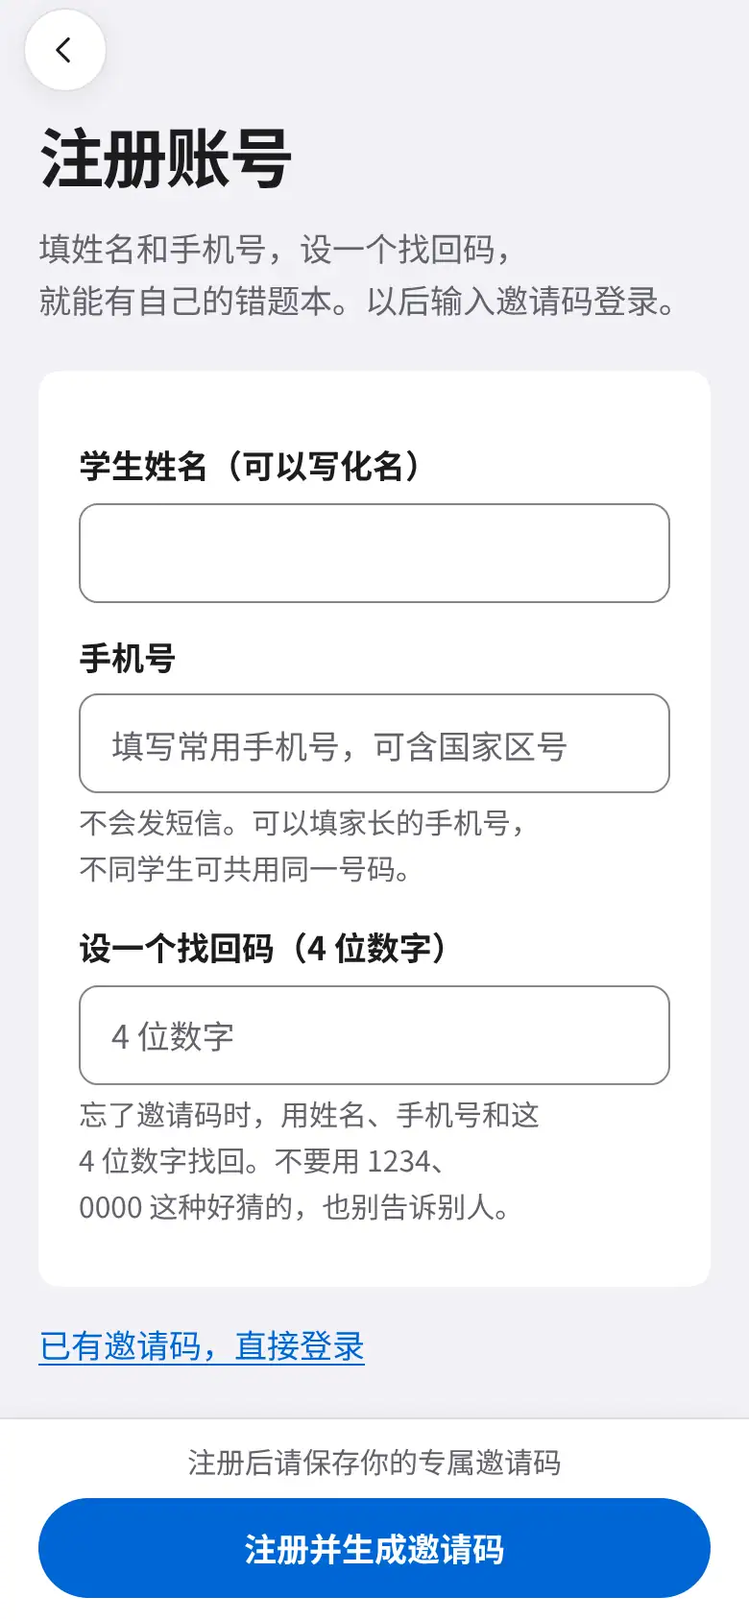
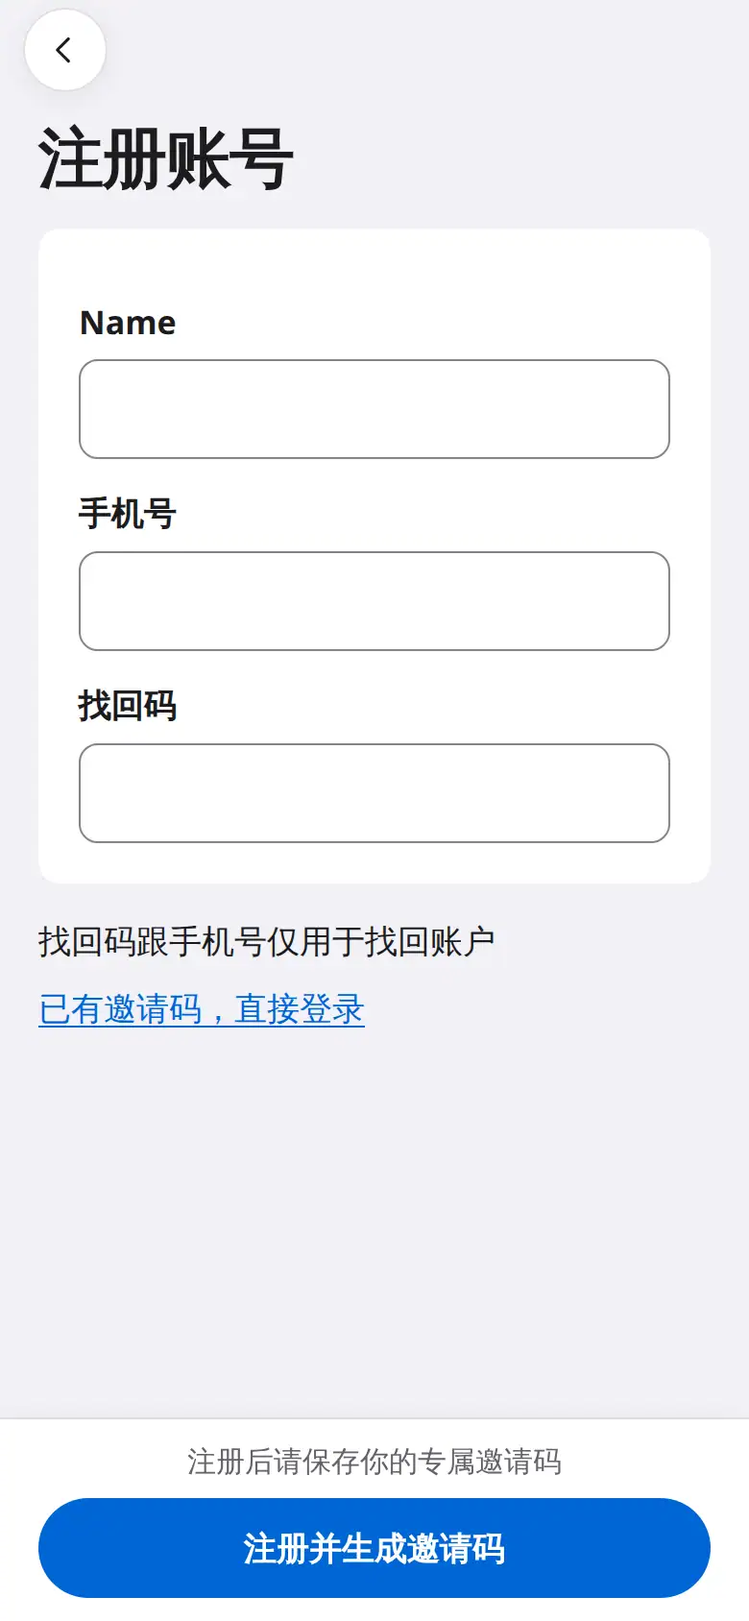
Shorten registration and add the WeChat group on help (#138)
Remove the help section for viewing or rotating invite codes, add the angel-user WeChat group QR to the contact section, and shorten the registration form copy.

diff --git a/src/portal/helpPortal.ts b/src/portal/helpPortal.ts
@@ -6,7 +6,8 @@
  * study.pccoding666.com 的 GET / 仍是 404；/s、/v1、/v2、/admin 不在这里处理。
  * help.pccoding666.com 子域名暂不使用（DNS 仍是 NXDOMAIN）。不要再按主机名把 GET / 换成这一页。
  * 页面是静态文案。发布包只带 dist/，HTML 随 tsc 编译进去；图片在构建时复制到 dist/portal/help-img/。
- * 联系方式（2026-11-01）只从环境变量 SEL_HELP_CONTACT_WECHAT / SEL_HELP_CONTACT_EMAIL 读：没设就不显示那一行，代码里不写个人信息。
+ * 联系方式：先问老师那句始终在。微信群「超级错题本天使用户」的二维码写在页面上，2026-11-23 前有效，过期要换图。
+ * 邮箱和微信号仍只从环境变量 SEL_HELP_CONTACT_WECHAT / SEL_HELP_CONTACT_EMAIL 读：没设就不显示那一行，代码里不写个人微信号。
  */
 import { existsSync, readFileSync } from 'node:fs';
 import path from 'node:path';
@@ -35,7 +36,7 @@ export const HELP_GUIDE_IMAGES = [
   'recover.webp',
   'stage.webp',
   'settings.webp',
-  'account.webp',
+  'wechat-group.webp',
   'install.webp',
   'iphone-confirm.webp',
   'iphone-home.webp',
@@ -73,7 +74,7 @@ function escapeHtml(text: string): string {
   return text.replace(/[&<>"']/g, ch => ({ '&': '&amp;', '<': '&lt;', '>': '&gt;', '"': '&quot;', "'": '&#39;' })[ch]!);
 }
 
-/** 联系方式区块：有哪一项显示哪一项；一项都没有时只说找老师。 */
+/** 联系方式：老师那句和微信群二维码始终在。邮箱、微信号有哪一项才多出那一行。 */
 function contactHtml(contact: HelpContact): string {
   const rows: string[] = [];
   if (contact.email) {
@@ -82,8 +83,12 @@ function contactHtml(contact: HelpContact): string {
     rows.push(`<div><dt>邮箱</dt><dd data-contact="email">${link}</dd></div>`);
   }
   if (contact.wechat) rows.push(`<div><dt>微信</dt><dd data-contact="wechat">${escapeHtml(contact.wechat)}</dd></div>`);
-  if (rows.length === 0) return '<p class="note" data-contact="none">使用中有问题，先问给你邀请码的老师。</p>';
-  return `<dl class="group">${rows.join('')}</dl>`;
+  const directory = rows.length === 0 ? '' : `<dl class="group">${rows.join('')}</dl>`;
+  const none = rows.length === 0 ? ' data-contact="none"' : '';
+  return `<p class="note"${none}>使用中有问题，先问给你邀请码的老师。</p>
+<p>也可以加入微信群「超级错题本天使用户」。下面的二维码在 2026 年 11 月 23 日前有效（图上写的是 7 天内、11月23日前），过期后要换成新的。</p>
+<figure class="contact-qr"><img src="/help/img/wechat-group.webp" width="1220" height="2712" alt="微信群「超级错题本天使用户」的入群二维码，图上写着 11月23日前有效。" loading="eager" decoding="async"></figure>
+${directory}`;
 }
 
 /**
@@ -305,6 +310,8 @@ h1 {
 .quiet, .note { margin: 12px 0 0; color: var(--sel-muted); font-size: 15px; line-height: 1.5; }
 .hero-actions { margin: 22px 0 0; }
 .shot-note { margin: 10px 0 0; color: var(--sel-muted); font-size: 14px; line-height: 1.4; text-align: center; }
+.contact-qr { margin: 16px 0 0; max-width: 390px; }
+.contact-qr img { display: block; width: 100%; height: auto; border-radius: 22px; background: #000; }
 .cards + .group { margin-top: 14px; }
 .device {
   margin: 0;
@@ -478,12 +485,11 @@ footer p { margin: 0 0 6px; }
         <p data-testid="start-steps">最快的三步：老师给你一个<strong>二维码或链接</strong>，扫一下或点开，登录页里邀请码已经填好 → 点<strong>「进入我的错题本」</strong> → 点「新增」，<strong>拍一张批改过的卷子</strong>。只拿到 12 位邀请码的，按下面的步骤自己输入。</p>
       </div>
       <div class="cards">
-        ${card('register.webp', '合成示例。注册页：姓名、手机号和 4 位找回码', '注册', '打开 <a href="' + STUDY_URL + 'register">注册页</a>，填姓名和手机号，自己设一个 4 位数字找回码（不要用 1234、0000 这种）。老师给了班级注册码才会多出这一格；不用密码，也不发短信，姓名可以写化名，手机号可以填家长的。')}
+        ${card('register.webp', '合成示例。注册页：Name、手机号和找回码', '注册', '打开 <a href="' + STUDY_URL + 'register">注册页</a>，填写 Name、手机号和找回码。页面上写着「找回码跟手机号仅用于找回账户」。老师给了班级注册码才会多出这一格。已经有邀请码的，点「已有邀请码，直接登录」。')}
         ${card('register-done.webp', '合成示例。注册成功页，邀请码只完整显示这一次', '保存邀请码', '注册成功后会显示你的 12 位邀请码，只在这一页完整显示一次。请截图或点「复制邀请码」，不要发给别人；邀请码 60 天内可以反复登录。')}
         ${card('stage.webp', '合成示例。第一次选择初中或高中', '选学段', '第一次进入会问初中还是高中，以后可以在设置里改。错题按这个学段整理章节，目前只支持数学、物理、化学。')}
         ${card('login.webp', '合成示例。输入 12 位邀请码的登录页', '登录', '打开 <a href="' + STUDY_URL + '">学习页</a>，输入邀请码，点「进入我的错题本」。老师发的二维码或链接打开后邀请码已经填好，直接点进入；打开链接本身不算登录，点了按钮才算。短横线、空格、大小写都不用管，登录后常用的话不用每次输。')}
         ${card('settings.webp', '合成示例。设置页：学段、练习即将推出、添加到主屏幕、我的邀请码', '设置', '登录后打开设置，可以改学段，也能进入「我的邀请码」。练习一行写着「即将推出」。')}
-        ${card('account.webp', '合成示例。我的邀请码页面，可以复制或重新生成', '查看或换邀请码', '在「设置 → 我的邀请码」可以查看、复制，或重新生成；页面上还有这枚码的登录链接和二维码，换手机时用新手机扫一下就能登录。重新生成后旧码立刻作废，其他设备要用新码登录，学习记录都在；快到期时设置页会提醒你换码。')}
       </div>
     </section>
 

diff --git a/src/studentHost/loginView.tsx b/src/studentHost/loginView.tsx
@@ -182,21 +182,23 @@ function FieldAlert(props: { id: string; message?: string }): ReactNode {
   return <p className="field-error" id={`${props.id}-error`} role="alert" data-testid={`${props.id}-error`} hidden={!props.message}>{props.message ?? ''}</p>;
 }
 
-/** 4 位找回码输入框（注册、找回、我的邀请码共用）。 */
-function PinInput(props: { id: string; label: string; hint: string; error?: string; autoFocus?: boolean; message: string; caption: string }): ReactNode {
+/** 4 位找回码输入框（注册、找回、我的邀请码共用）。注册页不写占位和说明。 */
+function PinInput(props: { id: string; label: string; hint?: string; placeholder?: string; error?: string; autoFocus?: boolean; message: string; caption: string }): ReactNode {
+  const describedBy = [props.error ? `${props.id}-error` : '', props.hint ? `${props.id}-hint` : ''].filter(Boolean).join(' ');
+  const placeholder = props.placeholder === '' ? undefined : (props.placeholder ?? '4 位数字');
   return <>
     <label htmlFor={props.id} className="field-label">{props.label}</label>
     <input id={props.id} name="pin" type="text" inputMode="numeric" autoComplete="off" enterKeyHint="done" pattern="[0-9]{4}" minLength={4} maxLength={4} required
-      placeholder="4 位数字" aria-describedby={props.error ? `${props.id}-error ${props.id}-hint` : `${props.id}-hint`} aria-invalid={props.error ? true : undefined}
+      placeholder={placeholder} aria-describedby={describedBy || undefined} aria-invalid={props.error ? true : undefined}
       autoFocus={props.autoFocus} data-invalid-message={props.message} data-caption={props.caption} data-testid={`${props.id}-input`} />
     <FieldAlert id={props.id} message={props.error} />
-    <p className="hint" id={`${props.id}-hint`}>{props.hint}</p>
+    {props.hint ? <p className="hint" id={`${props.id}-hint`}>{props.hint}</p> : null}
   </>;
 }
 
 /**
- * 注册：填姓名（可写化名）、手机号，自己设一个 4 位找回码；网关打开班级注册码时另要注册码。
- * 手机号不发短信、不验证归属，只和找回码一起用来自助找回。
+ * 注册：Name、手机号、找回码。校验规则不变；页面上不再写占位和字段说明。
+ * 网关打开班级注册码时另要注册码。
  */
 export function RegistrationPage(props: { error?: string; duplicate?: boolean; blocked?: AttemptBlock; inAppBrowser?: boolean; values?: RegistrationFormValues; requireCode?: boolean; fieldErrors?: Partial<Record<RegistrationField, string>> }): ReactNode {
   const values = props.values ?? {};
@@ -207,7 +209,6 @@ export function RegistrationPage(props: { error?: string; duplicate?: boolean; b
     <Page title="注册账号" back={{ href: '/s/', label: '邀请码登录' }} showSettings={false}
       bar={{ ...bar, primary: { title: '注册并生成邀请码', key: 'register', form: 'register-form' }, secondary: [] }}>
       <h1>注册账号</h1>
-      <p className="lead">填姓名和手机号，设一个找回码，就能有自己的错题本。以后输入邀请码登录。</p>
       <InAppBrowserNotice show={props.inAppBrowser === true} where="register" />
       {props.blocked
         ? <Problem title="提交太频繁了" detail={throttleText(props.blocked, props.requireCode ? '这个码' : '这个网络')} />
@@ -223,22 +224,22 @@ export function RegistrationPage(props: { error?: string; duplicate?: boolean; b
               autoFocus={focus === 'regcode'} data-invalid-message="请填写老师发的注册码。" data-caption="请先填对注册码" />
             <FieldAlert id="register-code" message={errors?.regcode} />
           </> : null}
-          <label htmlFor="register-name" className="field-label">学生姓名（可以写化名）</label>
+          <label htmlFor="register-name" className="field-label">Name</label>
           <input id="register-name" name="name" type="text" autoComplete="name" maxLength={60} required defaultValue={values.name ?? ''}
             aria-invalid={errors?.name ? true : undefined} aria-describedby={errors?.name ? 'register-name-error' : undefined}
             autoFocus={focus === 'name'} data-invalid-message={NAME_MESSAGE} data-caption="请先填写姓名" />
           <FieldAlert id="register-name" message={errors?.name} />
           <label htmlFor="register-phone" className="field-label">手机号</label>
           <input id="register-phone" name="phone" type="tel" inputMode="tel" autoComplete="tel" maxLength={40} required defaultValue={values.phone ?? ''}
-            placeholder="填写常用手机号，可含国家区号" aria-invalid={errors?.phone ? true : undefined}
-            aria-describedby={errors?.phone ? 'register-phone-error registration-phone-hint' : 'registration-phone-hint'}
+            aria-invalid={errors?.phone ? true : undefined}
+            aria-describedby={errors?.phone ? 'register-phone-error' : undefined}
             autoFocus={focus === 'phone'} data-invalid-message={PHONE_MESSAGE} data-caption="请先填对手机号" />
           <FieldAlert id="register-phone" message={errors?.phone} />
-          <p className="hint" id="registration-phone-hint">不会发短信。可以填家长的手机号，不同学生可共用同一号码。</p>
-          <PinInput id="register-pin" label="设一个找回码（4 位数字）" hint="忘了邀请码时，用姓名、手机号和这 4 位数字找回。不要用 1234、0000 这种好猜的，也别告诉别人。"
+          <PinInput id="register-pin" label="找回码" placeholder=""
             error={errors?.pin} autoFocus={focus === 'pin'} message={RECOVERY_PIN_SET_MESSAGE} caption="请先设好 4 位找回码" />
         </form>
       </section>
+      <p>找回码跟手机号仅用于找回账户</p>
       <p><a href="/s/">已有邀请码，直接登录</a></p>
     </Page>
   );

diff --git a/tests/e2e/studentHost.spec.ts b/tests/e2e/studentHost.spec.ts
@@ -121,9 +121,9 @@ test('name, phone and recovery-code registration works without JavaScript; the c
     await page.getByRole('link', { name: '首次使用，注册账号' }).click();
     await expect(page.getByRole('heading', { name: '注册账号' })).toBeVisible();
     await expect(page.getByLabel('注册码（8 位，老师发的）')).toHaveCount(0);
-    await page.getByLabel('学生姓名（可以写化名）').fill('合成浏览器学生');
+    await page.getByLabel('Name').fill('合成浏览器学生');
     await page.getByLabel('手机号', { exact: true }).fill('+6587654321');
-    await page.getByLabel('设一个找回码（4 位数字）').fill('2580');
+    await page.getByLabel('找回码').fill('2580');
     await page.getByRole('button', { name: '注册并生成邀请码' }).click();
     await expect(page.getByRole('heading', { name: '注册成功' })).toBeVisible();
     const code = (await page.getByTestId('registered-invite-code').textContent())!;
@@ -165,9 +165,9 @@ test('registration refuses an easy-to-guess recovery code on the server too, and
   await expect(page.getByRole('link', { name: '《个人信息处理规则》' })).toHaveCount(0);
   // 绕过浏览器端的格式检查，确认服务端也拦。
   await page.locator('#register-form').evaluate(form => form.setAttribute('novalidate', ''));
-  await page.getByLabel('学生姓名（可以写化名）').fill('合成无码学生');
+  await page.getByLabel('Name').fill('合成无码学生');
   await page.getByLabel('手机号', { exact: true }).fill('+6587650000');
-  await page.getByLabel('设一个找回码（4 位数字）').fill('1234');
+  await page.getByLabel('找回码').fill('1234');
   await page.getByRole('button', { name: '注册并生成邀请码' }).click();
   await expect(page.getByTestId('register-pin-error')).toContainText('请设一个 4 位数字的找回码');
   await expect(page.getByTestId('problem')).toContainText('请设一个 4 位数字的找回码');
@@ -179,7 +179,7 @@ test('registration refuses an easy-to-guess recovery code on the server too, and
 
 test('empty or easy recovery code is marked on the field without leaving the register page', async ({ page }) => {
   await page.goto(base + '/s/register');
-  await page.getByLabel('学生姓名（可以写化名）').fill('pctest002');
+  await page.getByLabel('Name').fill('pctest002');
   await page.getByLabel('手机号', { exact: true }).fill('18924082429');
   await page.getByRole('button', { name: '注册并生成邀请码' }).click();
   await expect(page).toHaveURL(/\/s\/register$/);
@@ -191,16 +191,16 @@ test('empty or easy recovery code is marked on the field without leaving the reg
   await expect(page.getByTestId('offline-title')).toHaveCount(0);
   await expect(page.locator('#register-pin')).toBeFocused();
 
-  await page.getByLabel('设一个找回码（4 位数字）').fill('4567');
+  await page.getByLabel('找回码').fill('4567');
   await page.getByRole('button', { name: '注册并生成邀请码' }).click();
   await expect(page).toHaveURL(/\/s\/register$/);
   await expect(page.getByTestId('problem')).toHaveCount(0);
-  await expect(page.getByLabel('设一个找回码（4 位数字）')).toHaveValue('4567');
+  await expect(page.getByLabel('找回码')).toHaveValue('4567');
   await expect(page.getByTestId('register-pin-error')).toContainText('1234、0000');
   await expect(page.getByTestId('registered-invite-code')).toHaveCount(0);
 
   await page.getByLabel('手机号', { exact: true }).fill('002');
-  await page.getByLabel('设一个找回码（4 位数字）').fill('2580');
+  await page.getByLabel('找回码').fill('2580');
   await page.getByRole('button', { name: '注册并生成邀请码' }).click();
   await expect(page).toHaveURL(/\/s\/register$/);
   await expect(page.getByTestId('problem')).toHaveCount(0);
@@ -220,15 +220,15 @@ test('a controlled service worker still shows register validation instead of the
     await expect.poll(() => page.evaluate(() => !!navigator.serviceWorker.controller)).toBe(true);
     // 客户端会先拦住好猜的码；关掉它，确认服务端的 400 也不会被 Service Worker 换成离线页。
     await page.locator('#register-form').evaluate(form => form.setAttribute('novalidate', ''));
-    await page.getByLabel('学生姓名（可以写化名）').fill('pctest002');
+    await page.getByLabel('Name').fill('pctest002');
     await page.getByLabel('手机号', { exact: true }).fill('18924082429');
-    await page.getByLabel('设一个找回码（4 位数字）').fill('4567');
+    await page.getByLabel('找回码').fill('4567');
     await page.getByRole('button', { name: '注册并生成邀请码' }).click();
     await expect(page.getByTestId('offline-title')).toHaveCount(0);
     await expect(page.getByTestId('register-pin-error')).toBeVisible();
     await expect(page.getByTestId('problem')).toContainText('4 位数字');
-    await expect(page.getByLabel('学生姓名（可以写化名）')).toHaveValue('pctest002');
-    await page.getByLabel('设一个找回码（4 位数字）').fill('2580');
+    await expect(page.getByLabel('Name')).toHaveValue('pctest002');
+    await page.getByLabel('找回码').fill('2580');
     await page.getByRole('button', { name: '注册并生成邀请码' }).click();
     await expect(page.getByRole('heading', { name: '注册成功' })).toBeVisible();
     await expect(page.getByTestId('offline-title')).toHaveCount(0);

diff --git a/scripts/capture-help-guide.ts b/scripts/capture-help-guide.ts
@@ -12,7 +12,7 @@ import { chromium, type Page } from '@playwright/test';
 import sharp from 'sharp';
 
 const OUT = path.resolve('src/portal/help-img');
-/** `npx tsx scripts/capture-help-guide.ts --only account` 只重拍我的邀请码，避免盖掉其它图。 */
+/** `npx tsx scripts/capture-help-guide.ts --only register` 只重拍注册页，避免盖掉其它图。 */
 const onlyShot = process.argv.includes('--only') ? process.argv[process.argv.indexOf('--only') + 1] ?? '' : '';
 const onlyNames = onlyShot === 'notebook' ? new Set(['notebook-empty', 'intake-auto']) : onlyShot ? new Set([onlyShot]) : null;
 const IPHONE = 'Mozilla/5.0 (iPhone; CPU iPhone OS 18_0 like Mac OS X) AppleWebKit/605.1.15 (KHTML, like Gecko) Version/18.0 Mobile/15E148 Safari/604.1';
@@ -69,19 +69,6 @@ async function stopHost(child: ChildProcess): Promise<void> {
   });
 }
 
-/** 帮助页上的登录链接必须是公网入口，二维码编的是同一条链接。码来自合成夹具。 */
-async function captureAccount(page: Page, base: string): Promise<void> {
-  await page.goto(`${base}/s/account`);
-  await page.getByRole('heading', { name: '我的邀请码' }).waitFor();
-  await page.getByTestId('my-invite-qr').waitFor();
-  const link = (await page.getByTestId('my-invite-link').innerText()).replace(/\s+/g, '');
-  if (!link.startsWith('https://study.pccoding666.com/s/?code=')) throw new Error(`登录链接不是公网入口：${link}`);
-  if (link.includes('127.0.0.1') || link.includes('localhost')) throw new Error(`登录链接带了本机地址：${link}`);
-  await page.getByTestId('my-invite-link-block').evaluate((node: HTMLElement) => node.scrollIntoView({ block: 'center' }));
-  await page.waitForTimeout(300);
-  await save(page, 'account');
-}
-
 async function main(): Promise<void> {
   const browser = await chromium.launch();
   const context = await browser.newContext({
@@ -105,6 +92,7 @@ async function main(): Promise<void> {
     await page.goto(`${base}/s/register`);
     await page.getByRole('heading', { name: '注册账号' }).waitFor();
     await save(page, 'register');
+    if (onlyShot === 'register') return;
     await page.locator('#register-name').fill('示例学生');
     await page.locator('#register-phone').fill('13800001111');
     await page.getByTestId('register-pin-input').fill('2580');
@@ -123,11 +111,6 @@ async function main(): Promise<void> {
     if (await page.getByRole('heading', { name: '你现在读初中还是高中？' }).count()) {
       await save(page, 'stage');
       await page.getByRole('button', { name: '初中', exact: true }).click();
-    }
-
-    if (onlyShot === 'account') {
-      await captureAccount(page, base);
-      return;
     }
 
     await page.getByTestId('empty-notebook').waitFor();
@@ -185,7 +168,6 @@ async function main(): Promise<void> {
     await page.getByText('即将推出').waitFor();
     await page.getByTestId('settings-my-invite').waitFor();
     await save(page, 'settings');
-    await captureAccount(page, base);
     await page.goto(`${base}/s/install`);
     await page.getByRole('heading', { name: '放到主屏幕' }).waitFor();
     await save(page, 'install');
@@ -195,7 +177,7 @@ async function main(): Promise<void> {
     await browser.close();
   }
 
-  for (const stale of ['practice-home', 'practice-question', 'practice-print', 'practice-record', 'practice-submit', 'settings-practice']) {
+  for (const stale of ['practice-home', 'practice-question', 'practice-print', 'practice-record', 'practice-submit', 'settings-practice', 'account']) {
     const file = path.join(OUT, `${stale}.webp`);
     if (fs.existsSync(file)) {
       fs.unlinkSync(file);

diff --git a/tests/integration/helpPortal.test.ts b/tests/integration/helpPortal.test.ts
@@ -91,7 +91,13 @@ describe('产品说明页文案', () => {
     expect(html).not.toContain('standalone');
     expect(html).toContain('https://study.pccoding666.com/s/register');
     expect(html).toContain('https://study.pccoding666.com/s/recover');
-    expect(html).toContain('4 位数字找回码');
+    expect(html).toContain('找回码跟手机号仅用于找回账户');
+    expect(html).not.toContain('查看或换邀请码');
+    expect(html).not.toContain('在「设置 → 我的邀请码」可以查看、复制，或重新生成');
+    expect(html).toContain('超级错题本天使用户');
+    expect(html).toContain('2026 年 11 月 23 日前有效');
+    expect(html).toContain('/help/img/wechat-group.webp');
+    expect(html).not.toContain('/help/img/account.webp');
     expect(html).toContain('加入 N 道');
     expect(html).toContain('即将推出');
     expect(html).toContain('href="https://study.pccoding666.com/s/"');
@@ -119,7 +125,7 @@ describe('产品说明页文案', () => {
     expect(start).toContain('「进入我的错题本」');
     expect(start).toContain('拍一张批改过的卷子');
     expect(start).toContain('打开链接本身不算登录');
-    expect(start).toContain('登录链接和二维码');
+    expect(start).not.toContain('查看或换邀请码');
     const home = /<section id="home">[\s\S]*?<\/section>/.exec(html)![0];
     expect(home).toContain('Safari');
     expect(home).toContain('添加到主屏幕');
@@ -135,6 +141,7 @@ describe('产品说明页文案', () => {
     expect(html).toContain('loading="eager"');
     const faq = /<section id="faq">[\s\S]*?<\/section>/.exec(html)![0];
     expect(faq).toContain('扫一下就能登录');
+    expect(faq).toContain('登录链接和二维码');
     expect(faq).toContain('「复制网址」');
     expect(faq).toContain('在 Safari 中打开');
     // 说明页不含任何邀请码或带码链接的样子
@@ -210,6 +217,12 @@ describe('说明页在 /help/，不占用学生学习站，也不看 Host', () =
     expect(String(portalHeaders['content-security-policy'])).toContain("img-src 'self'");
 
     const image = await request(port, 'GET', '/help/img/notebook-empty.webp', 'study.pccoding666.com');
+    const group = await request(port, 'GET', '/help/img/wechat-group.webp', 'study.pccoding666.com');
+    expect(group.status).toBe(200);
+    expect(group.type).toContain('image/webp');
+    expect(group.body.startsWith('RIFF')).toBe(true);
+    const removed = await request(port, 'GET', '/help/img/account.webp', 'study.pccoding666.com');
+    expect(removed.status).toBe(404);
     expect(image.status).toBe(200);
     expect(image.type).toContain('image/webp');
     expect(image.cache).toContain('public');

diff --git a/.claude/skills/verify-sel/features/register.md b/.claude/skills/verify-sel/features/register.md
@@ -29,7 +29,7 @@ Preconditions:
 - **Open from login.** `sel-verify drive open /s/` then `sel-verify drive click --role link --name "首次使用，注册账号"`. `sel-verify drive wait --heading "注册账号"` is visible.
 - **Open from recover.** `sel-verify drive open /s/recover` then `sel-verify drive click --role link --name "还没注册过？注册账号"`. The same heading is visible.
 - **Open directly.** `sel-verify drive open /s/register` then `sel-verify drive wait --heading "注册账号"`.
-- **Submit.** `sel-verify drive fill --label "学生姓名（可以写化名）" --text "合成浏览器学生"`, `sel-verify drive fill --label "手机号" --exact --text "+6587654321"`, `sel-verify drive fill --label "设一个找回码（4 位数字）" --text "2580"`, then `sel-verify drive click --role button --name "注册并生成邀请码"`. `sel-verify drive wait --heading "注册成功"`. `sel-verify drive wait --testid registered-invite-code` shows a code. Shot `artifacts/verify-sel/evidence/register/success.png` with `--feature register --name success`. Do not copy the code into the PR.
+- **Submit.** `sel-verify drive fill --label "Name" --exact --text "合成浏览器学生"`, `sel-verify drive fill --label "手机号" --exact --text "+6587654321"`, `sel-verify drive fill --label "找回码" --exact --text "2580"`, then `sel-verify drive click --role button --name "注册并生成邀请码"`. `sel-verify drive wait --heading "注册成功"`. `sel-verify drive wait --testid registered-invite-code` shows a code. Shot `artifacts/verify-sel/evidence/register/success.png` with `--feature register --name success`. Do not copy the code into the PR.
 - **Enter.** `sel-verify drive click --role button --name "我已保存，进入错题本"`. The next screen is the stage gate or the notebook, not the login form.
 - **Return without registering.** From the form, `sel-verify drive click --role link --name "已有邀请码，直接登录"` or the back control `邀请码登录` (`--testid back-link`). The heading is `输入邀请码`.
 - **Duplicate.** Submit the same name and phone again. A link named `用找回码找回邀请码` is visible, and the success heading does not appear.

diff --git a/docs/product/STUDENT_GUIDE.md b/docs/product/STUDENT_GUIDE.md
@@ -33,12 +33,10 @@
 
 ## 注册与登录
 
-1. **注册。** 打开 `/s/register`，填姓名和手机号，自己设一个 4 位数字找回码（不要用 1234、0000 这种）。老师给了班级注册码的，页面上会出现这一格，一并填上；没给就没有这一格。不用密码，也不发短信。姓名可以写化名，手机号可以填家长的。
+1. **注册。** 打开 `/s/register`，填写 Name、手机号和找回码。页面上写着「找回码跟手机号仅用于找回账户」。老师给了班级注册码的，页面上会出现这一格，一并填上。
 2. **保存邀请码。** 注册成功后显示 12 位邀请码，只在这一页完整显示一次。截图或复制，不要发给别人。邀请码 60 天内可以反复登录。
 3. **选学段。** 第一次进入会问初中还是高中。以后可以在设置里改。
 4. **登录。** 打开 `/s/`，输入邀请码。短横线、空格、大小写都不用管。登录后常用的话不用每次输。
-5. **查看或换邀请码。** 「设置 → 我的邀请码」里可以查看、复制，或重新生成。重新生成后旧码和其他设备的登录会失效，学习记录都在。快到期时设置页会提醒你换码。
-
 ![注册页](../../src/portal/help-img/register.webp)
 
 ![注册成功，邀请码只显示这一次](../../src/portal/help-img/register-done.webp)
@@ -48,8 +46,6 @@
 ![登录页](../../src/portal/help-img/login.webp)
 
 ![设置：学段、练习即将推出、添加到主屏幕、我的邀请码](../../src/portal/help-img/settings.webp)
-
-![我的邀请码](../../src/portal/help-img/account.webp)
 
 忘了邀请码：打开 `/s/recover`，用注册时的姓名、手机号和找回码换一个新码，记录都在，旧码作废。没设过找回码，或找回码也忘了，找老师重发。
 
